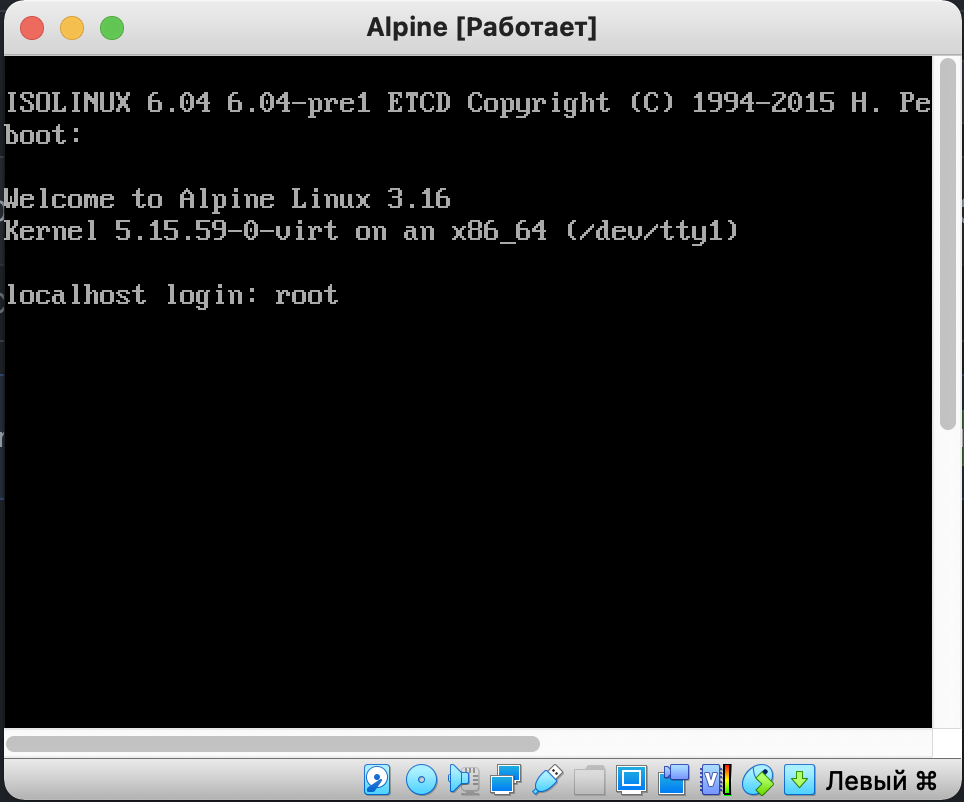
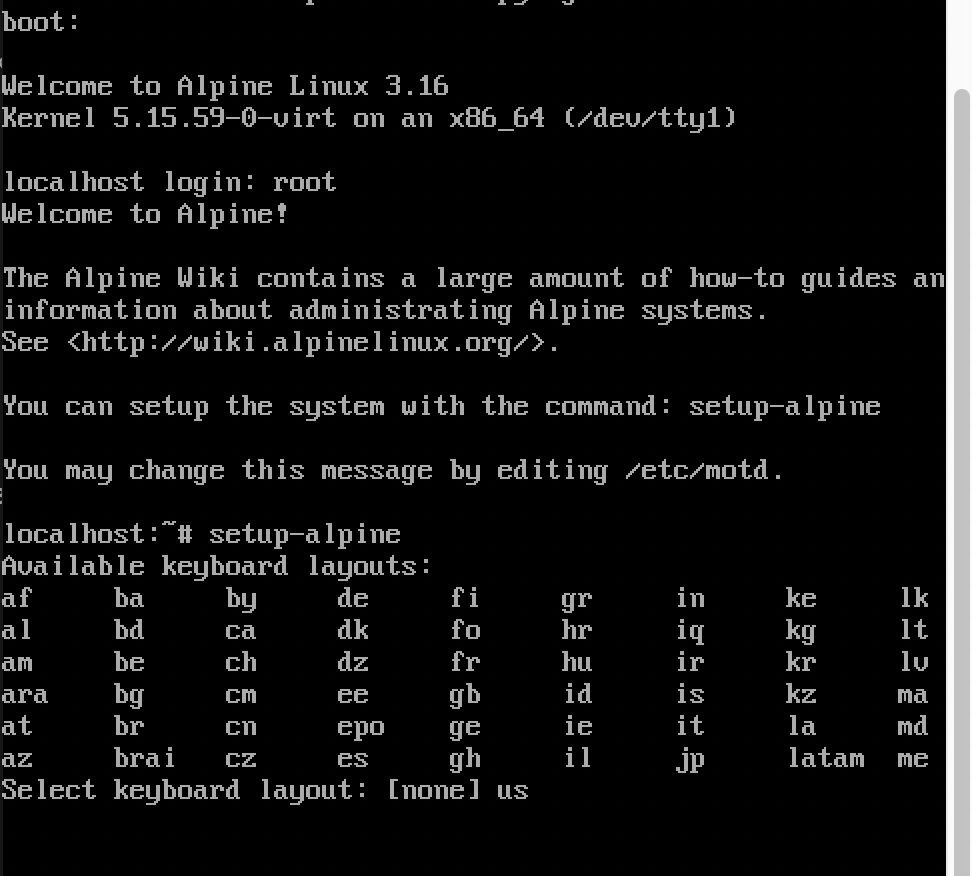
step 4

diff --git a/INSTALL_ALPINE.md b/INSTALL_ALPINE.md
@@ -10,7 +10,7 @@
 
 ### 2.1 Создание виртуальной машины
 
-Создайте виртуальную машину со следующими параметрами:
+Создаём виртуальную машину со следующими параметрами:
 
 ![настройка virtualbox](media/install_step_1.png)
 
@@ -32,4 +32,63 @@
 
 ## Шаг 3. Установка
 
-### 3.1 
+### 3.1 Начало установки
+
+После запуска загрузится приветственное окно. Вводим имя пользователя ```roor``` и нажимаем ```enter```
+
+![вход](media/install_step_4.png)
+
+Далее выполняем команду:
+
+```setup-alpnie```
+
+![запуск установки](media/install_step_5.png)
+
+Таким образом мы запускаем процесс установки.
+
+### 3.2 Раскладка клавиатуры
+
+Выбираем английскую раскладку, так как в проекте нам не понадобятся другие языки:
+
+![раскладка клавиатуры](media/install_step_6.png)
+
+Выбираем метод ввода. Если привычна клавиатура мака, выбираем раскладку us-mac:
+
+![выбор метода ввода](media/install_step_7.png)
+
+### 3.3 Имя хоста
+
+Можно оставить имя хоста по умолчанию, а можно ввести что-либо. Например, свой ник:
+
+![имя хоста](media/install_step_8.png)
+
+Далее трижды нажимаем ```enter```, оставляя по умолчанию настройки сети.
+
+После вводим пароль пользователя. Рекомендую вводить что-то простое, например единицу.
+
+Далее принимаем дефолтные настройки, нажмая ```enter``` до момента выбора логина ssh.
+
+### 3.4 Пользователь ssh
+
+Так как мы не создали дополнительного пользователя и работаем под root-ом, необходимо дать ему права доступа под ssh. Для этого выбираем ```yes``` в ```Allow root ssh login?```:
+
+![вход по ssh](media/install_step_9.png)
+
+### 3.5 Установка системы на диск
+
+Далее жмём ```enter``` пока не появится раздел выбора диска. Выбираем единственный доступный вариант - ```sda```:
+
+![выбор диска](media/install_step_10.png)
+
+Далее нам надо выбрать для чего будет использоваться этот диск. Так как это системный диск, то выбираем ```sys```:
+
+![системный раздел](media/install_step_11.png)
+
+Отвечаем утвердительно на предложение стереть диск и продолжить установку:
+
+![стирание диска](media/install_step_12.png)
+
+После система быстро установится и попросит перезагрузки. Перезагрузим виртуальную машину командой ```reboot```:
+
+![перезагрузка](media/install_step_13.png)
+
